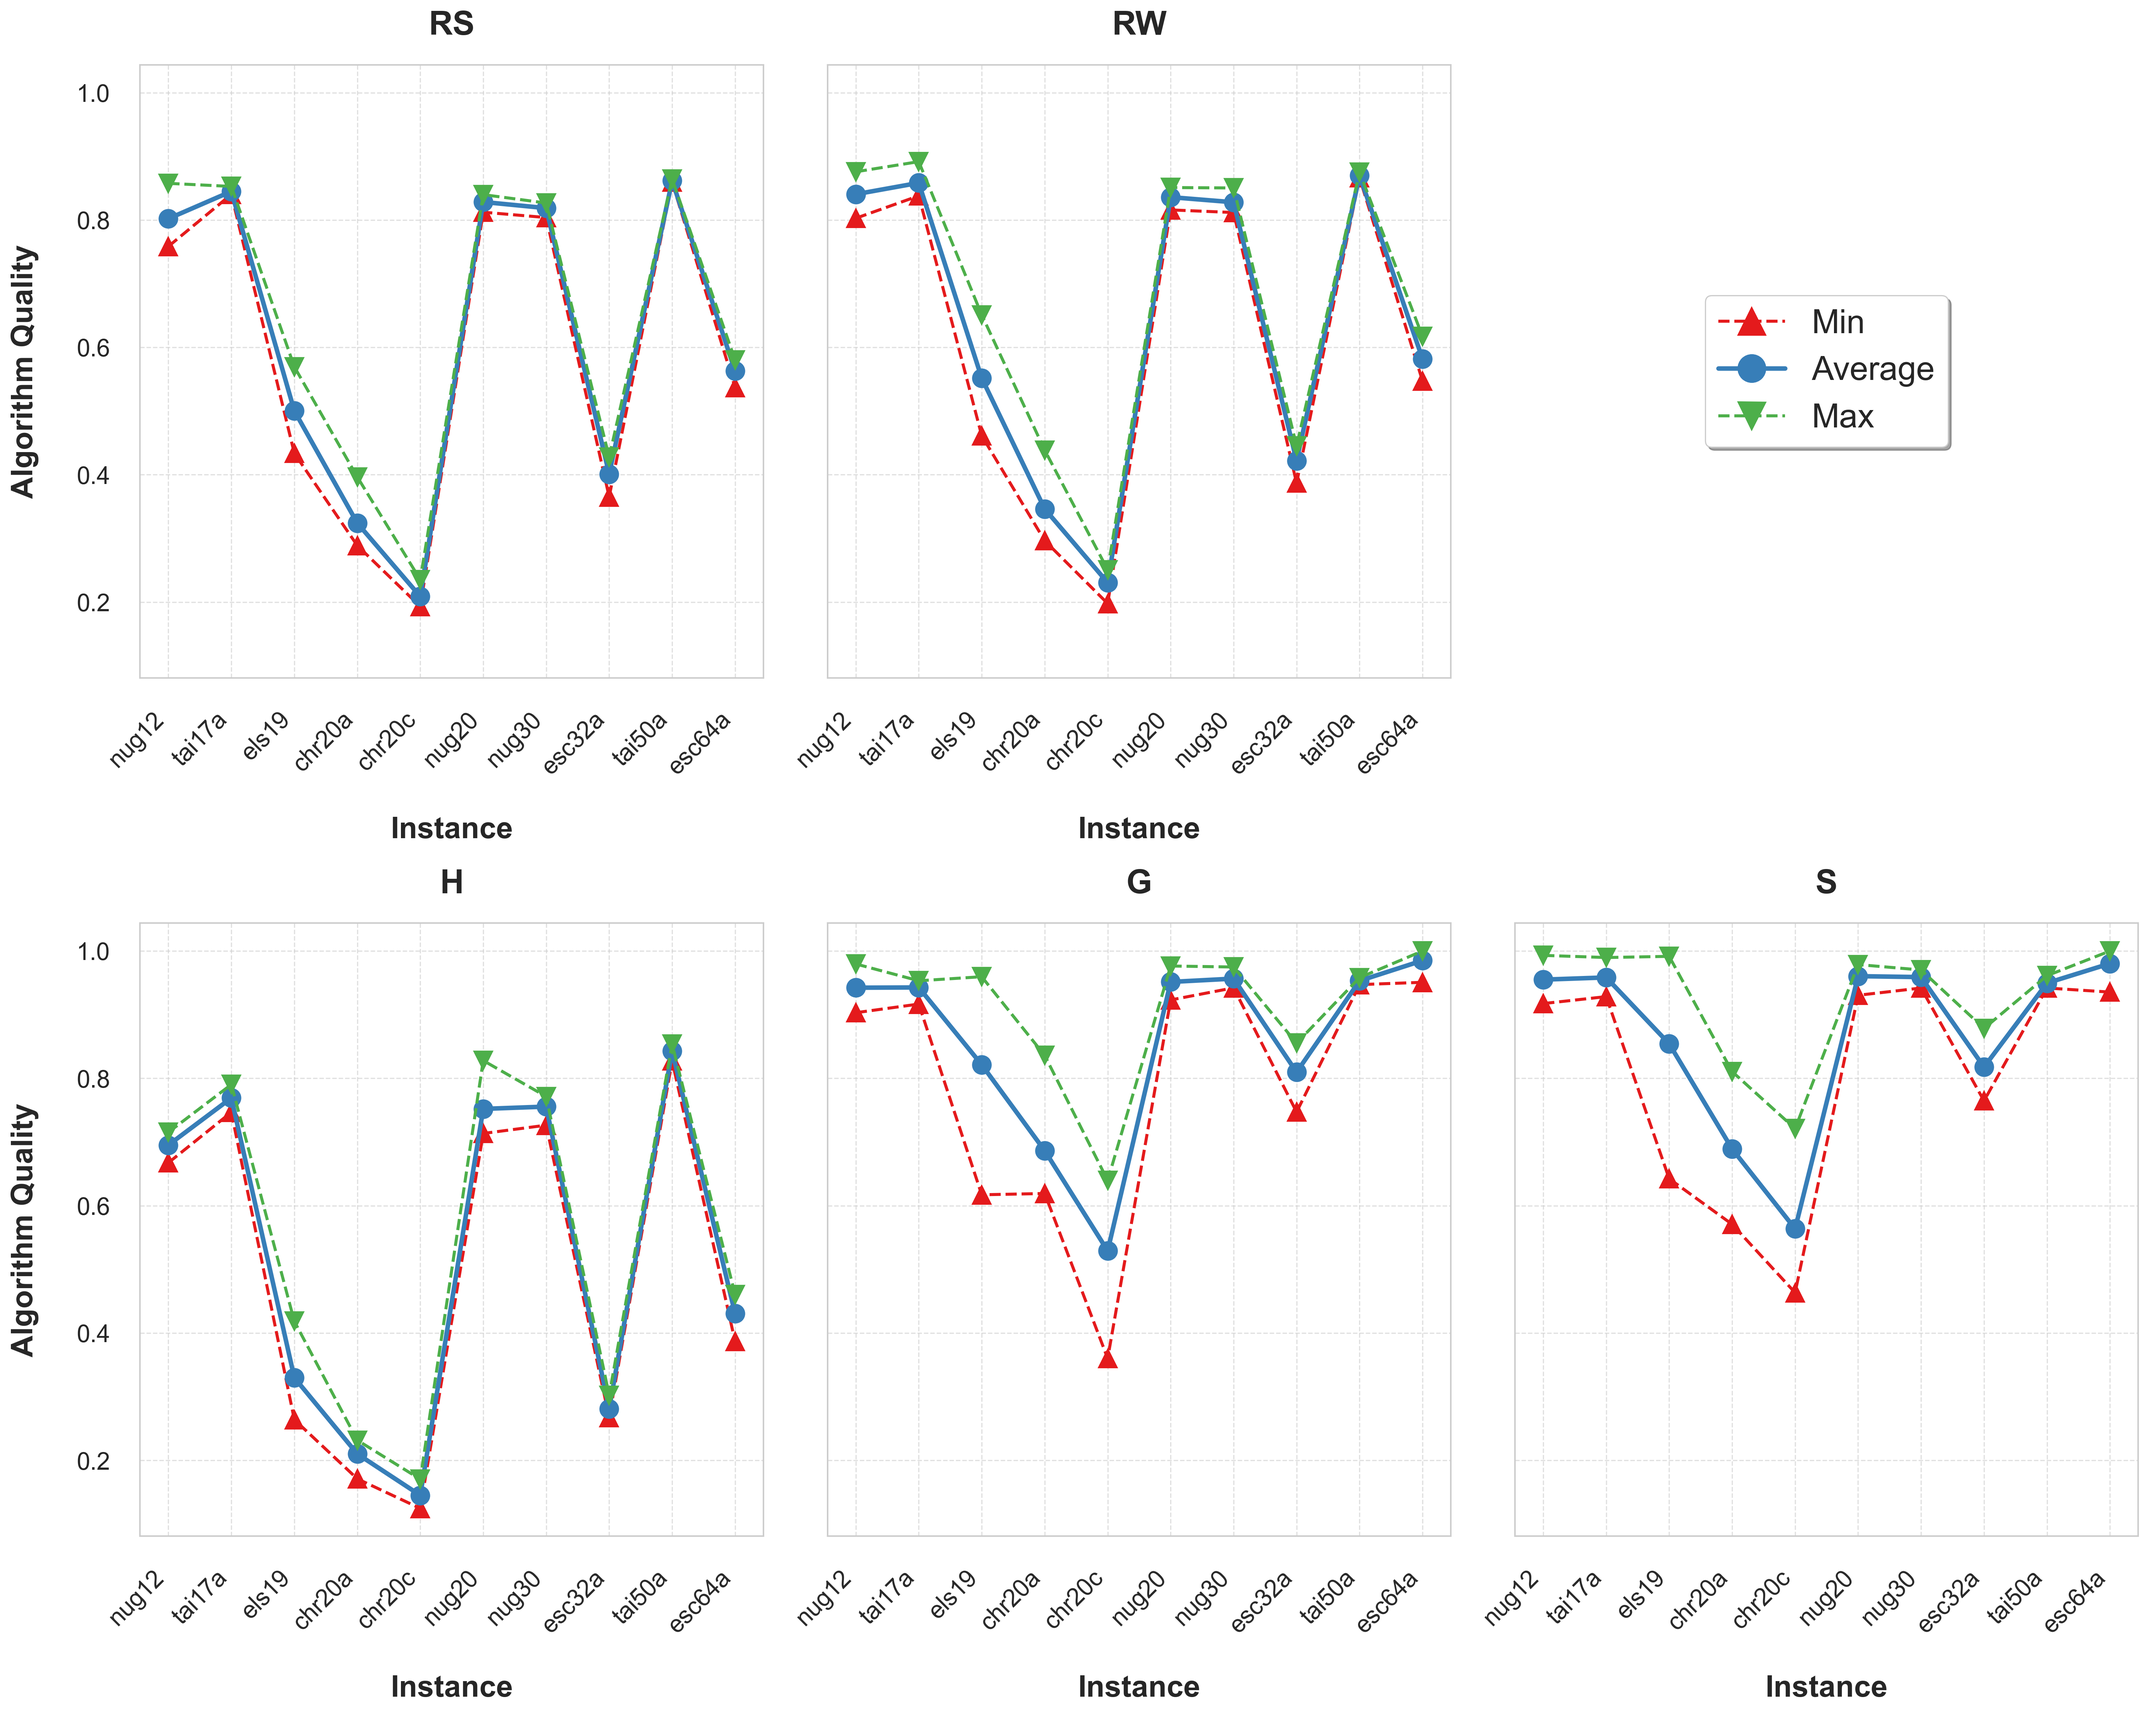
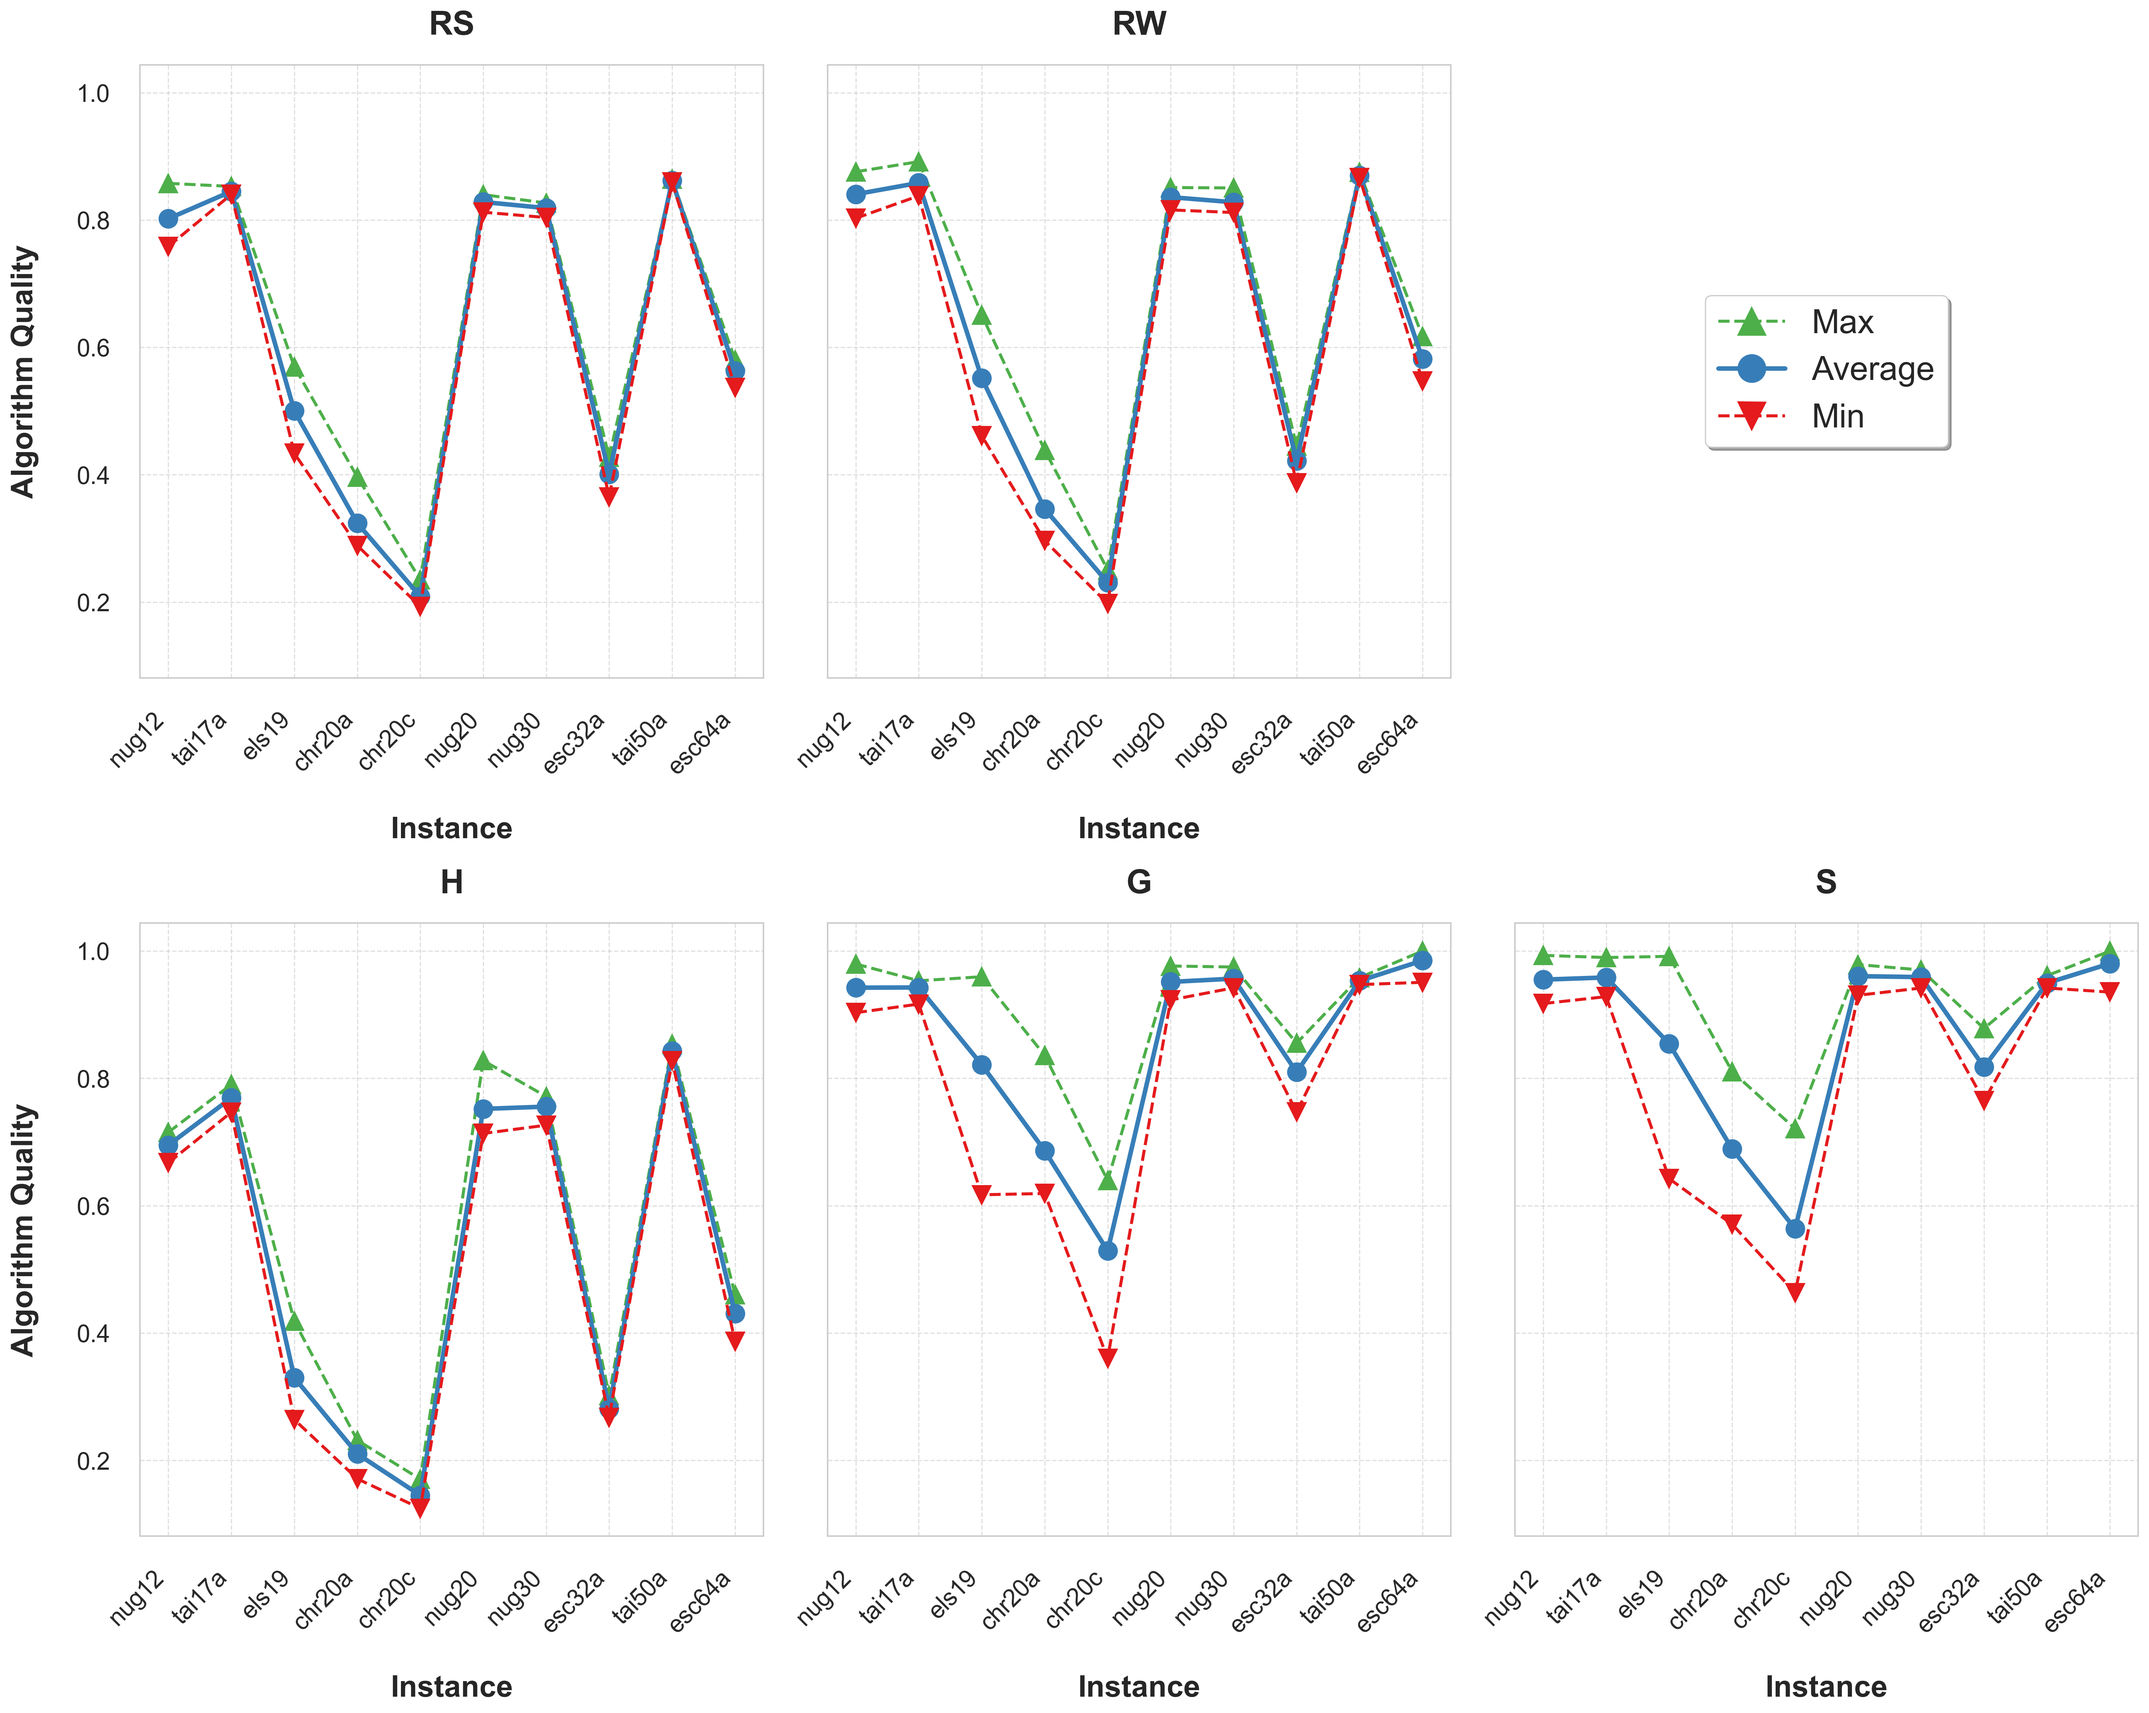
final plots

diff --git a/LS/src/plot.py b/LS/src/plot.py
@@ -70,13 +70,13 @@ def main():
         ax = axes_flat[target_idx]
         subset = agg_q[agg_q['Algorithm'] == alg]
 
-        # Zwiększone markersize=12
-        ax.plot(subset['Instance'], subset['Quality_Min'], marker='^', color='#e41a1c', 
-                linestyle='--', linewidth=2, markersize=12, label='Min')
+        ax.plot(subset['Instance'], subset['Quality_Max'], marker='^', color='#4daf4a', 
+                linestyle='--', linewidth=2, markersize=12, label='Max')
         ax.plot(subset['Instance'], subset['Quality_Mean'], marker='o', color='#377eb8', 
                 linestyle='-', linewidth=3, markersize=12, label='Average')
-        ax.plot(subset['Instance'], subset['Quality_Max'], marker='v', color='#4daf4a', 
-                linestyle='--', linewidth=2, markersize=12, label='Max')
+        ax.plot(subset['Instance'], subset['Quality_Min'], marker='v', color='#e41a1c', 
+                linestyle='--', linewidth=2, markersize=12, label='Min')
+        
 
         ax.set_title(f"{alg}", fontweight='bold', fontsize=22, pad=20)
         ax.set_xticks(range(len(ordered_instances)))
